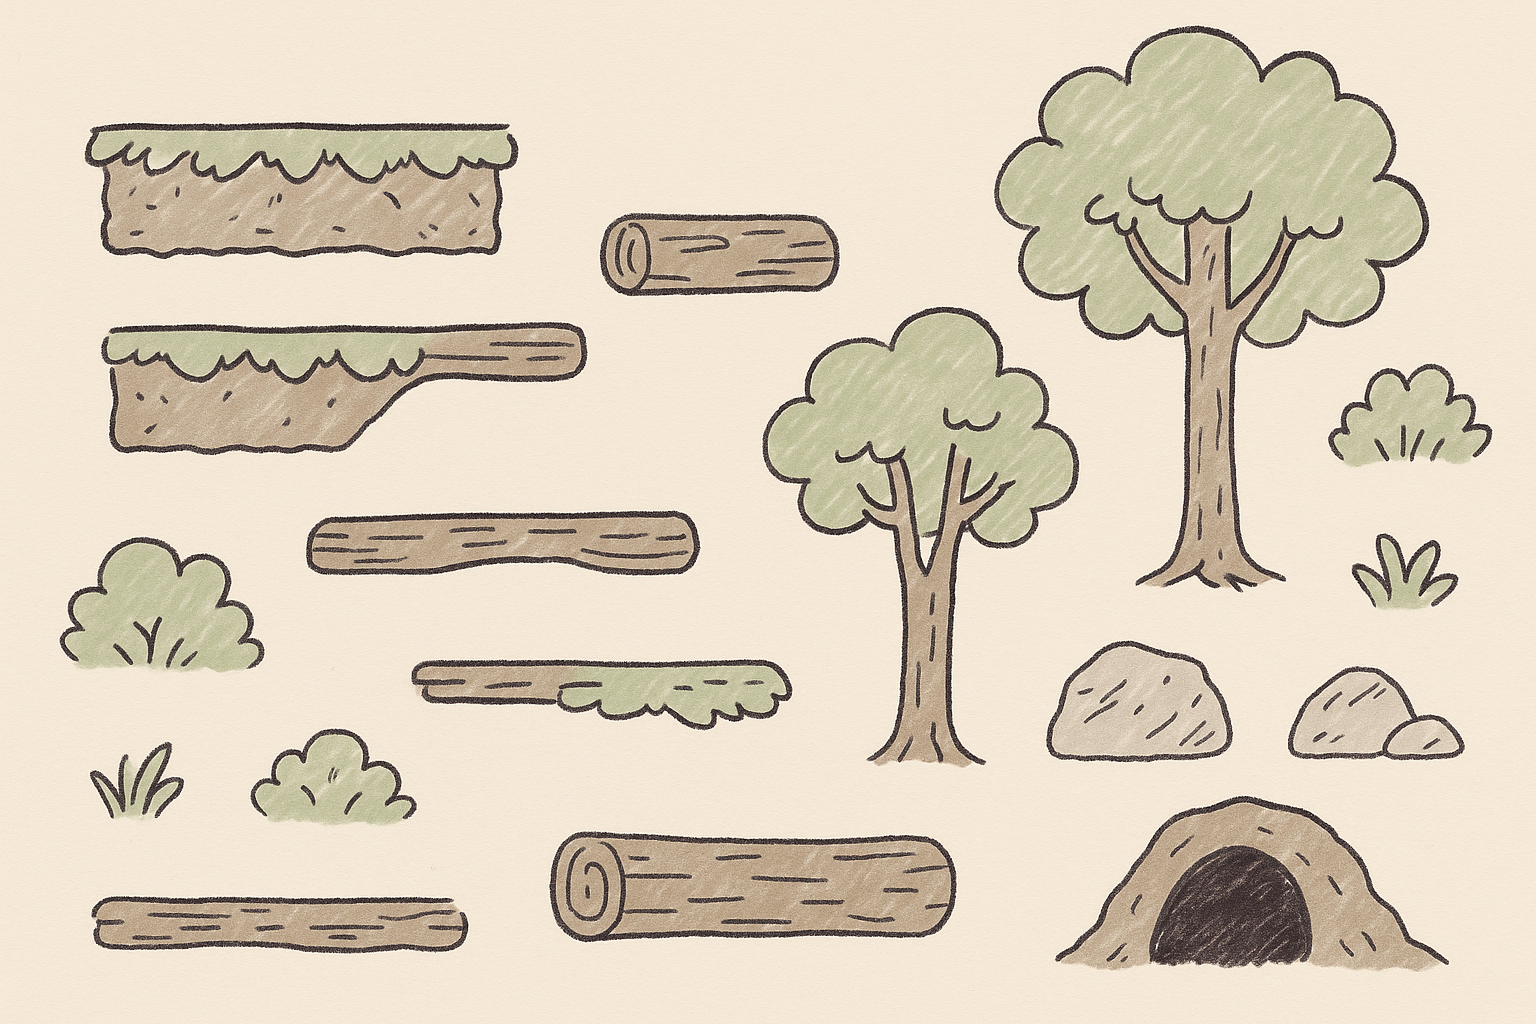
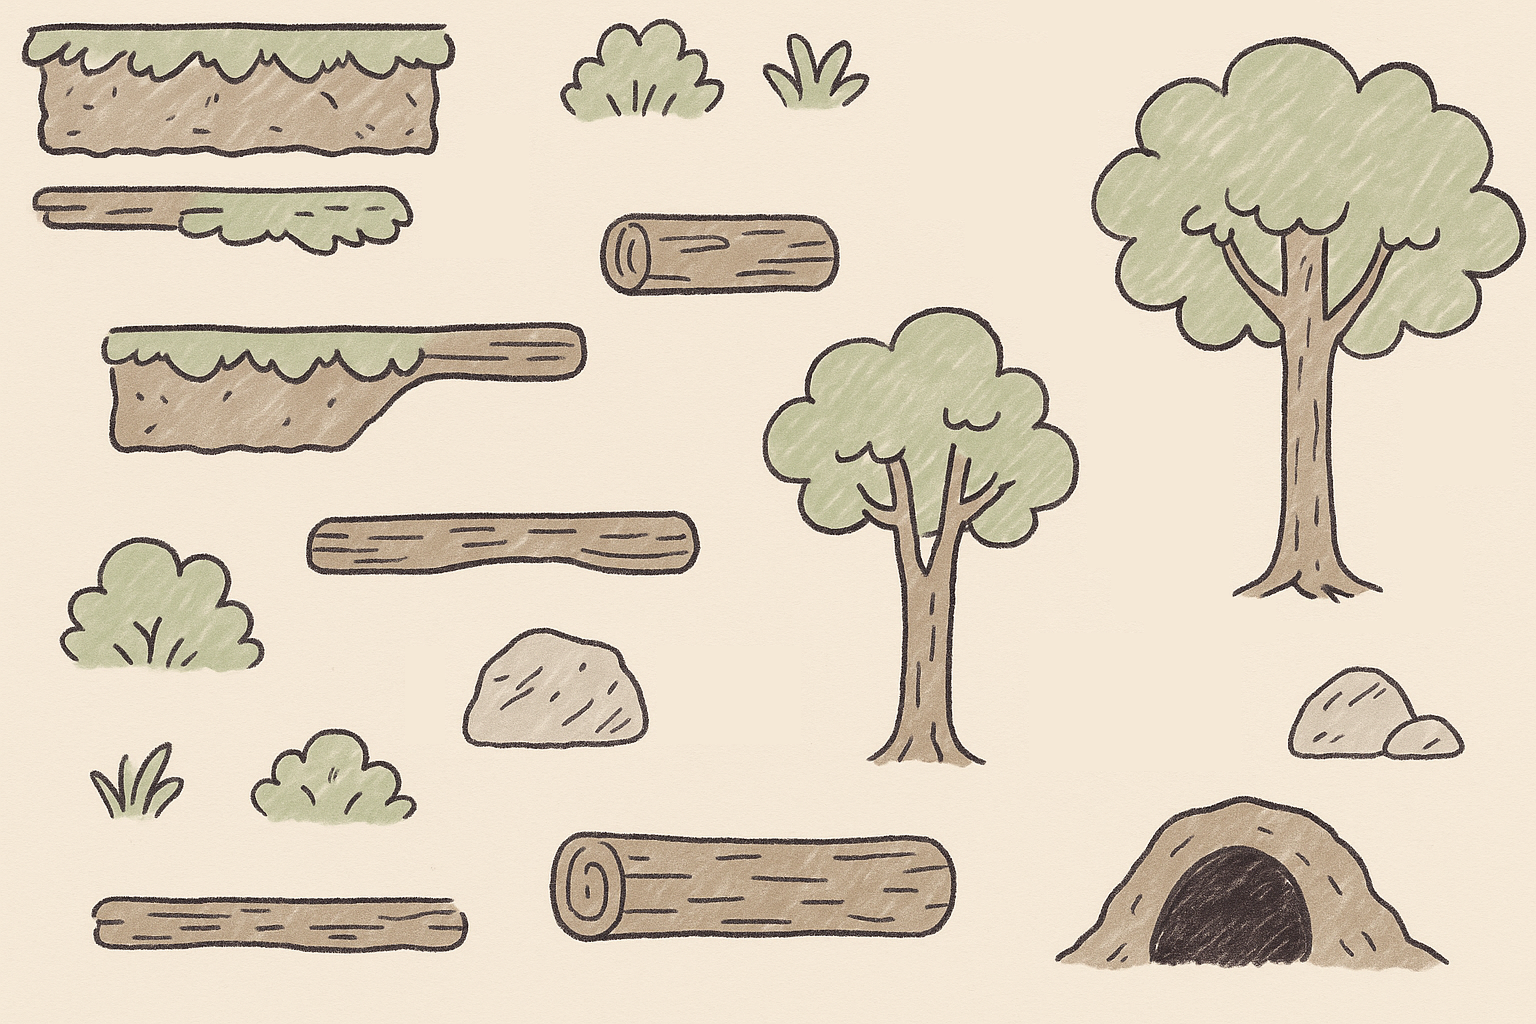
ground and trees with sprites

diff --git a/src/render/sprites.js b/src/render/sprites.js
@@ -147,14 +147,24 @@ export function drawCollectible(ctx, x, y, kind='acorn', scale=0.25) {
 export function drawTree(ctx, rc, x, y, scale=0.4) {
   const img = images.tiles;
   if (img && img.width) {
-    // draw one of the trees (right side of sheet) — approximate crop
-    const sx = Math.floor(img.width*0.64), sy = Math.floor(img.height*0.12);
-    const sw = Math.floor(img.width*0.30), sh = Math.floor(img.height*0.62);
-    const dw = Math.floor(sw*scale), dh = Math.floor(sh*scale);
-    
-    // Use transparency processing
+    // Tighter crop for tree region on tiles.png (normalized coordinates)
+    // Tuned to include only the canopy + trunk without neighboring tiles
+    const nx = 0.71, ny = 0.01 , nw = 0.3, nh = 0.6;
+    const sx = Math.floor(img.width * nx);
+    const sy = Math.floor(img.height * ny);
+    const sw = Math.floor(img.width * nw);
+    const sh = Math.floor(img.height * nh);
+    const dw = Math.floor(sw * scale);
+    const dh = Math.floor(sh * scale);
+
+    // Use transparency processing and anchor base at y (tree sits on ground)
     const transparentImg = makeTransparent(img);
-    ctx.drawImage(transparentImg, sx, sy, sw, sh, Math.floor(x - dw/2), Math.floor(y - dh), dw, dh);
+    ctx.drawImage(
+      transparentImg,
+      sx, sy, sw, sh,
+      Math.floor(x - dw / 2), Math.floor(y - dh),
+      dw, dh
+    );
     return;
   }
   // fallback procedural bushy tree
@@ -229,4 +239,34 @@ export function drawNest(ctx, rc, x, y, level=0, scale=0.5) {
 export function drawBackground(ctx, width, height) {
   // simple parchment backdrop if needed (actual season tint handled elsewhere)
   ctx.clearRect(0,0,width,height);
+}
+
+// === TILED GROUND FROM tiles.png ===
+// Draws a repeating ground tile across the screen at a given baseline y
+export function drawGround(ctx, y, cameraX, canvasWidth, scale=0.5) {
+  const img = images.tiles;
+  if (!img || !img.width) return;
+
+  // Approximate crop for a dirt/ground tile region in tiles.png (normalized)
+  // Adjust these if needed to better match your sheet
+  const nx = 0.05, ny = 0.0, nw = 0.21, nh = 0.18;
+  const sx = Math.floor(img.width * nx);
+  const sy = Math.floor(img.height * ny);
+  const sw = Math.floor(img.width * nw);
+  const sh = Math.floor(img.height * nh);
+
+  const transparentImg = makeTransparent(img);
+  const dw = Math.floor(sw * scale);
+  const dh = Math.floor(sh * scale);
+
+  // Start tiling a bit before the screen to avoid gaps during scroll
+  const startX = Math.floor((cameraX / dw)) * dw - dw * 2;
+  const endX = cameraX + canvasWidth + dw * 2;
+
+  for (let dx = startX; dx < endX; dx += dw) {
+    // anchor so top of tile is a bit above baseline (y is ground baseline)
+    const screenX = Math.floor(dx - cameraX);
+    const screenY = Math.floor(y - dh);
+    ctx.drawImage(transparentImg, sx, sy, sw, sh, screenX, screenY, dw, dh);
+  }
 }

diff --git a/src/game/systems.js b/src/game/systems.js
@@ -12,7 +12,9 @@ import {
   DASH_SPEED,
   STAMINA_DASH_COST,
   STAMINA_RECOVERY,
-  CALORIES_PER_DAY_WINTER
+  CALORIES_PER_DAY_WINTER,
+  CANVAS_WIDTH,
+  WORLD_WIDTH
 } from './constants';
 
 export function updateGame(deltaTime, { input, camera, physics, time, rng, canvas }) {
@@ -45,6 +47,10 @@ export function updateGame(deltaTime, { input, camera, physics, time, rng, canva
   
   // Clear just pressed states after processing
   input.clearJustPressed();
+
+  // Spawn and update collectibles
+  updateCollectibles(deltaTime, rng);
+  handlePickupCollisions(addToPantry, addNotification);
   
   // Update camera
   camera.follow(player, deltaTime);
@@ -133,9 +139,10 @@ function updatePlayerMovement(deltaTime, input, physics, player, updatePlayer, s
   }
   
   
-  // Keep player on screen initially
+  // Clamp to world bounds
+  const maxX = WORLD_WIDTH * CANVAS_WIDTH;
   if (x < 0) x = 0;
-  if (x > 800) x = 800;
+  if (x > maxX) x = maxX;
   
   // Update player state
   updatePlayer({
@@ -190,4 +197,55 @@ function checkWinLoseConditions(time, showWinLose) {
       return;
     }
   }
+}
+
+// --- Collectibles world spawning and pickup ---
+const worldState = {
+  pickups: [] // {id, x, y, kind, bob}
+};
+
+const PICKUP_KINDS = ['acorn', 'berry', 'cone', 'leaf'];
+
+function updateCollectibles(deltaTime, rng) {
+  // Keep a small number of pickups active near the play area
+  const targetCount = 8;
+  if (worldState.pickups.length < targetCount) {
+    const toSpawn = targetCount - worldState.pickups.length;
+    for (let i = 0; i < toSpawn; i++) {
+      const kind = PICKUP_KINDS[Math.floor(Math.random() * PICKUP_KINDS.length)];
+      const x = 160 + Math.random() * 1200; // spread across first screens
+      const y = 468 + Math.random() * 8; // near ground (500 minus half sprite)
+      worldState.pickups.push({ id: Date.now() + Math.random(), x, y, kind, bob: Math.random() * Math.PI * 2 });
+    }
+  }
+
+  // Bob animation
+  worldState.pickups.forEach(p => {
+    p.bob += deltaTime * 2;
+  });
+}
+
+function handlePickupCollisions(addToPantry, addNotification) {
+  const { player } = useStore.getState();
+  const px = player.x;
+  const py = player.y;
+  const pw = 24;
+  const ph = 32;
+
+  for (let i = worldState.pickups.length - 1; i >= 0; i--) {
+    const p = worldState.pickups[i];
+    // simple AABB overlap with small radius
+    const dx = Math.abs((px) - (p.x));
+    const dy = Math.abs((py) - (p.y));
+    if (dx < 20 && dy < 24) {
+      // collect
+      addToPantry(p.kind, 1);
+      addNotification(`+1 ${p.kind}`, 'success');
+      worldState.pickups.splice(i, 1);
+    }
+  }
+}
+
+export function getWorldPickups() {
+  return worldState.pickups;
 }

diff --git a/src/render/draw.js b/src/render/draw.js
@@ -6,7 +6,8 @@
 import rough from 'roughjs';
 import { whenImagesReady } from './assets';
 import { SEASONAL_PALETTES, TILE_SIZE } from '../game/constants';
-import { drawSquirrel, drawTree, drawCollectible, drawBackground, drawNest } from './sprites';
+import { drawSquirrel, drawTree, drawCollectible, drawBackground, drawNest, drawGround } from './sprites';
+import { getWorldPickups } from '../game/systems';
 import { useStore } from '../state/useStore';
 
 let roughCanvas = null;
@@ -58,27 +59,16 @@ function drawParallaxBackgrounds(ctx, rc, camera, time, palette, canvas) {
 }
 
 function drawWorld(ctx, rc, camera, time, palette, canvas) {
-  // This would draw the tilemap
-  // For now, draw a simple ground
-  const groundY = canvas.height - 100;
-  
-  rc.rectangle(
-    -camera.x,
-    groundY - camera.y,
-    canvas.width + 2000,
-    100,
-    {
-      fill: palette.primary,
-      stroke: palette.secondary,
-      strokeWidth: 2,
-      roughness: 1.5
-    }
-  );
+  // Ground line
+  const groundY = 500; // baseline used by physics
 
-  // Draw some trees
+  // Draw tiled ground from tilesheet
+  drawGround(ctx, groundY, camera.x, canvas.width, 0.6);
+
+  // Trees
   for (let i = 0; i < 10; i++) {
     const treeX = i * 200 - camera.x;
-    const treeY = groundY - 150 - camera.y;
+    const treeY = groundY - 10 - camera.y;
     
     if (camera.isVisible(treeX, treeY, 100)) {
       drawTree(ctx, rc, treeX, treeY, 0.4);
@@ -100,6 +90,17 @@ function drawEntities(ctx, rc, camera, time, palette, player) {
     });
   }
   
+  // Draw world pickups
+  const pickups = getWorldPickups();
+  for (let i = 0; i < pickups.length; i++) {
+    const p = pickups[i];
+    const px = p.x - camera.x;
+    const py = p.y - camera.y + Math.sin(p.bob) * 3; // bobbing
+    if (camera.isVisible(p.x, p.y, 60)) {
+      drawCollectible(ctx, px, py, p.kind, 0.18);
+    }
+  }
+
   // Draw nest with upgrade level
   const nestX = 100 - camera.x;
   const nestY = 500 - camera.y; // Position at ground level
